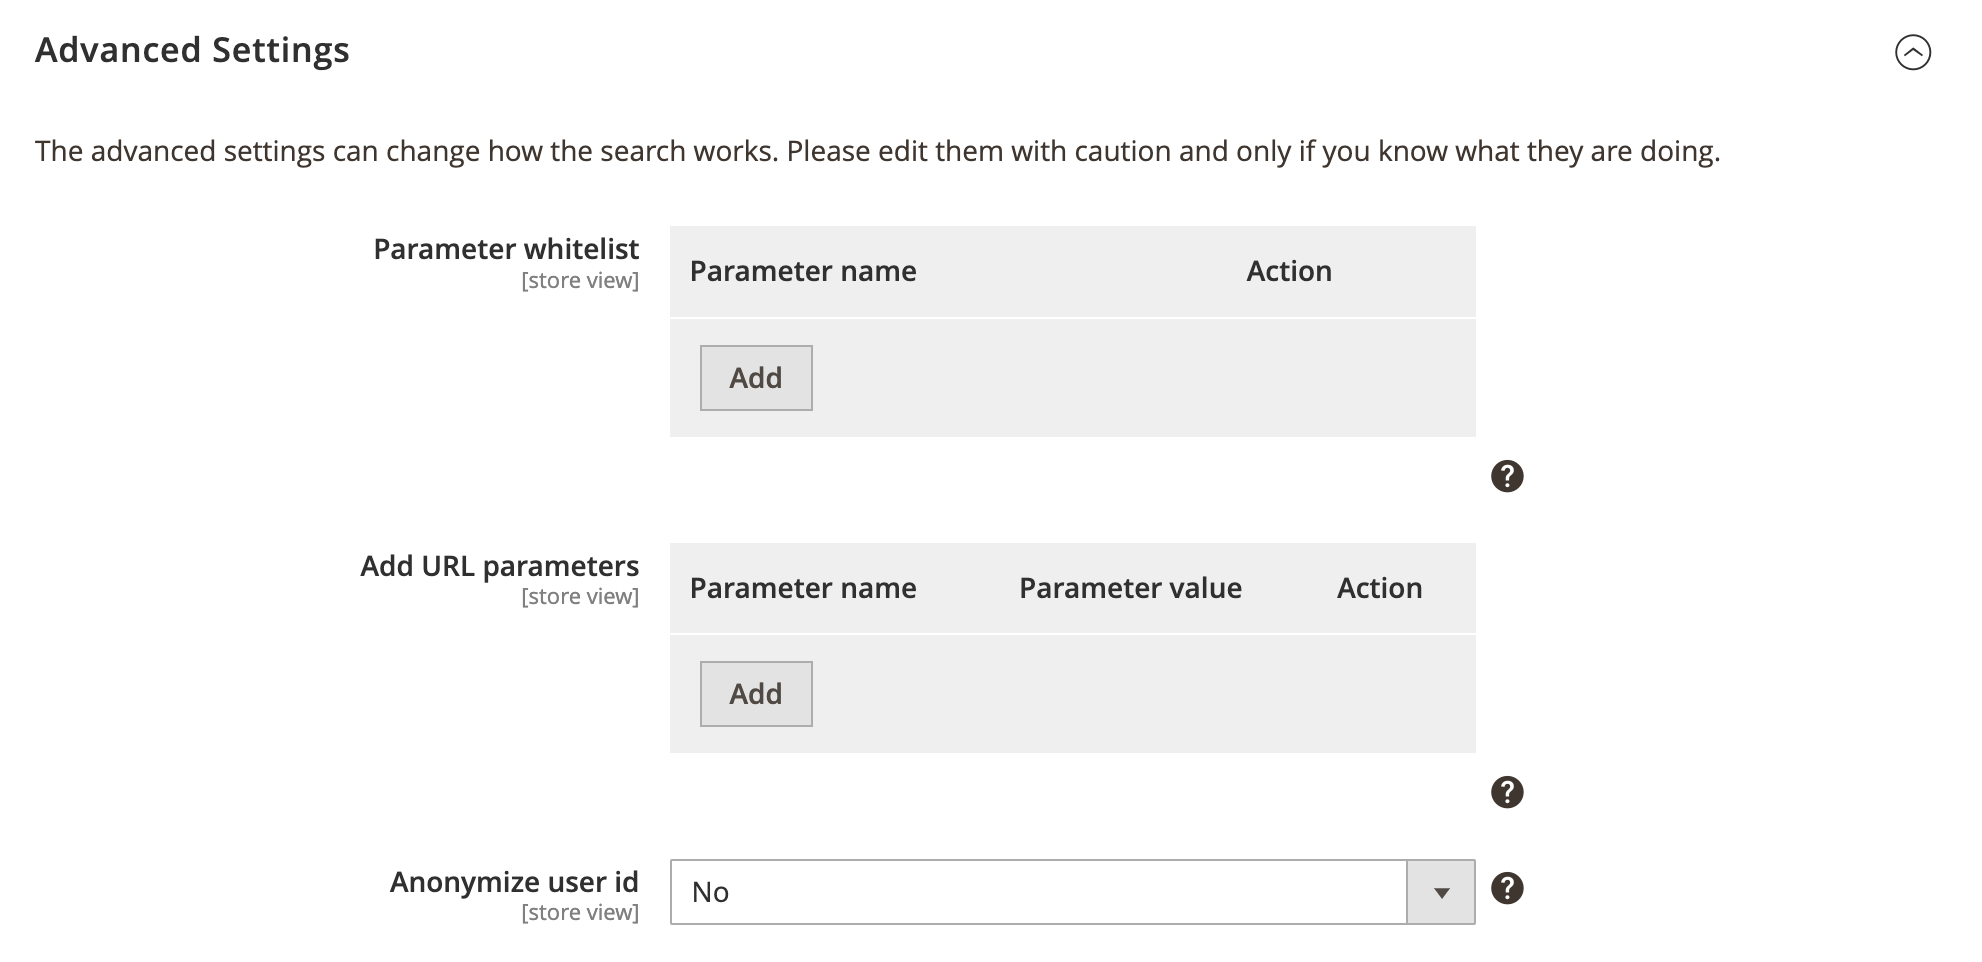
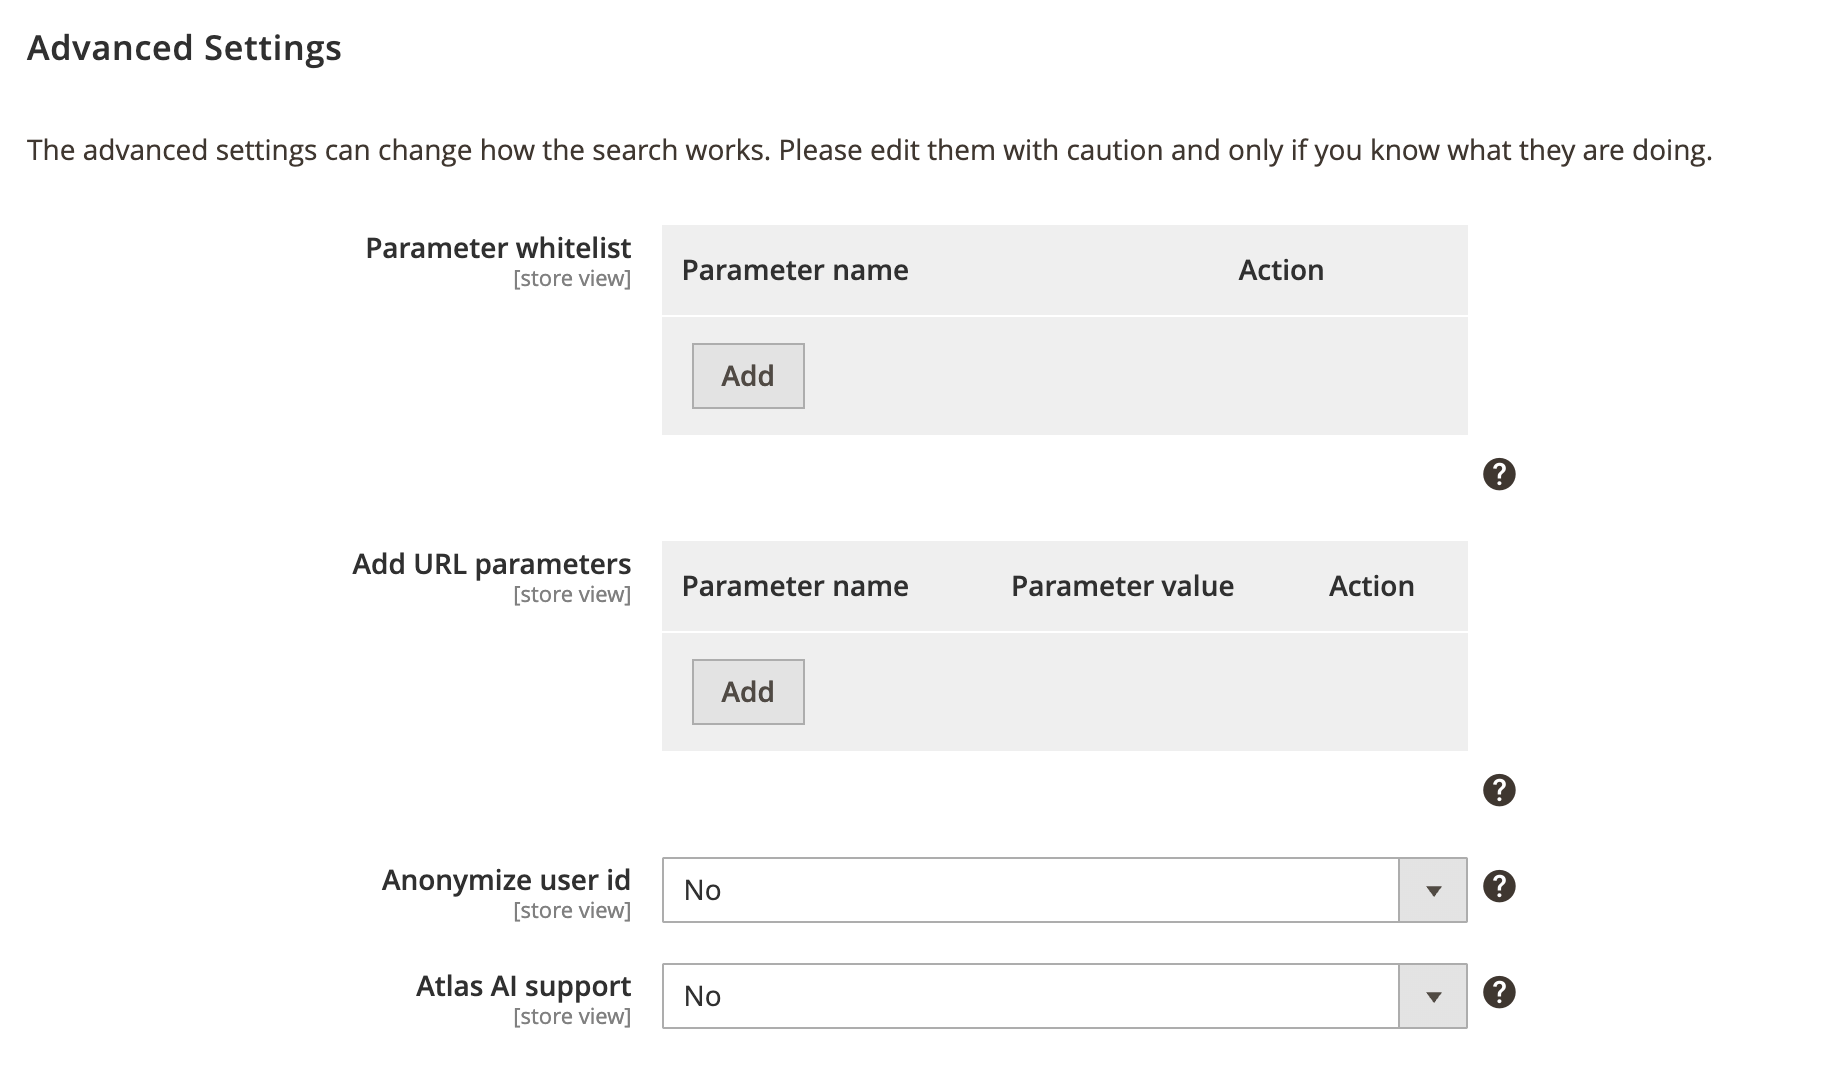
INT-343: Atlas AI - Add support for SSR and Proxy
Atlas AI - Add support for SSR and Proxy

diff --git a/src/Model/Config/CommunicationConfig.php b/src/Model/Config/CommunicationConfig.php
@@ -20,7 +20,7 @@ class CommunicationConfig implements ParametersSourceInterface
     private const PATH_IS_LOGGING_ENABLED   = 'factfinder/general/logging_enabled';
     private const PATH_FF_API_KEY           = 'factfinder/general/ff_api_key';
     private const PATH_CATEGORY_PATH_NAME   = 'factfinder/general/category_path_name';
-    private const PATH_SUPPORT_ATLAS_AI     = 'factfinder/general/category_path_name';
+    private const PATH_SUPPORT_ATLAS_AI     = 'factfinder/advanced/atlas_ai_user_id';
 
     private ScopeConfigInterface $scopeConfig;
 
@@ -50,6 +50,11 @@ class CommunicationConfig implements ParametersSourceInterface
     public function isPushImportEnabled(?int $scopeId = null): bool
     {
         return $this->scopeConfig->isSetFlag(self::PATH_DATA_TRANSFER_IMPORT, ScopeInterface::SCOPE_STORES, $scopeId);
+    }
+
+    public function isAtlasAIEnabled(?int $scopeId = null): bool
+    {
+        return $this->scopeConfig->isSetFlag(self::PATH_SUPPORT_ATLAS_AI, ScopeInterface::SCOPE_STORES, $scopeId);
     }
 
     public function getVersion(): string
@@ -82,7 +87,7 @@ class CommunicationConfig implements ParametersSourceInterface
             'channel'                  => $this->getChannel(),
             'api_key'                  => $this->getApiKey(),
             'category_path_field_name' => $this->getCategoryPathFieldName(),
-            'support_atlas_ai'         => $this->getSupportAtlasAi(),
+            'support_atlas_ai'         => $this->isAtlasAIEnabled()
         ];
     }
 

diff --git a/src/Block/Ssr/RecordList.php b/src/Block/Ssr/RecordList.php
@@ -75,17 +75,23 @@ class RecordList extends Template
 
     protected function searchResult(RequestInterface $request, array $searchParams): array
     {
-        //workaround for FFWEB-2720
         $sid = 'sid=';
 
         if (!empty($request->getCookie('ffwebc_sid', null))) {
             $sid .= $request->getCookie('ffwebc_sid', '');
         }
 
+        $atlasUserIdParam = '';
+
+        if (!empty($request->getCookie('ff_atlas_ai_user_id', null))) {
+            $atlasUserIdParam = 'userId=' . $request->getCookie('ff_atlas_ai_user_id', '');
+        }
+
         $paramsString = implode('&', array_filter([
-                parse_url($request->getRequestString(), PHP_URL_QUERY), //@phpcs:ignore Magento2.Functions.DiscouragedFunction.Discouraged
-                http_build_query($searchParams),
-                $sid
+            parse_url($request->getRequestString(), PHP_URL_QUERY), //@phpcs:ignore Magento2.Functions.DiscouragedFunction.Discouraged
+            http_build_query($searchParams),
+            $sid,
+            $atlasUserIdParam
         ]));
 
         return $this->searchAdapter->search($paramsString, $this->getRequest()->getFullActionName() === 'catalog_category_view');

diff --git a/src/ViewModel/Communication.php b/src/ViewModel/Communication.php
@@ -7,12 +7,14 @@ namespace Omikron\Factfinder\ViewModel;
 use Magento\Framework\App\Config\ScopeConfigInterface;
 use Magento\Framework\Serialize\SerializerInterface;
 use Magento\Framework\View\Element\Block\ArgumentInterface;
+use Magento\Store\Model\ScopeInterface;
 use Omikron\Factfinder\Model\Config\CommunicationParametersProvider;
 use Omikron\Factfinder\Model\FieldRoles;
 
 class Communication implements ArgumentInterface
 {
     private const PATH_USE_SRR = 'factfinder/general/use_ssr';
+    private const PATH_SUPPORT_ATLAS_AI = 'factfinder/advanced/atlas_ai_user_id';
 
     public function __construct(
         private readonly FieldRoles                      $fieldRoles,
@@ -42,6 +44,11 @@ class Communication implements ArgumentInterface
     public function isSsrEnable(): bool
     {
         return (bool) $this->scopeConfig->isSetFlag(self::PATH_USE_SRR);
+    }
+
+    public function isAtlasAIEnabled(?int $scopeId = null): bool
+    {
+        return $this->scopeConfig->isSetFlag(self::PATH_SUPPORT_ATLAS_AI, ScopeInterface::SCOPE_STORES, $scopeId);
     }
 
     private function mergeParameters(array ...$params): array

diff --git a/README.md b/README.md
@@ -131,6 +131,8 @@ The module uses [Handlebars PHP](https://github.com/salesforce/handlebars-php) l
 
 Advanced Settings contains additional parameters used for the WebComponents configurations. Each setting is set to a
 default value and has a short explanatory text attached.  
+
+Atlas AI support - If Atlas AI support is enabled, the integration handles Atlas AI-specific requirements automatically. This includes creating a dedicated Atlas AI user ID and storing it on the client side across sessions. **Important: If you enable this function, userId will be generated automatically and the previous values for userId that were sent for logged-in users will be overwritten.**
  
 #### Currency and Country Settings
 You don't need to set currency nor country only for module purposes. It will use currently used currency and pass this information to `factfinder init`
